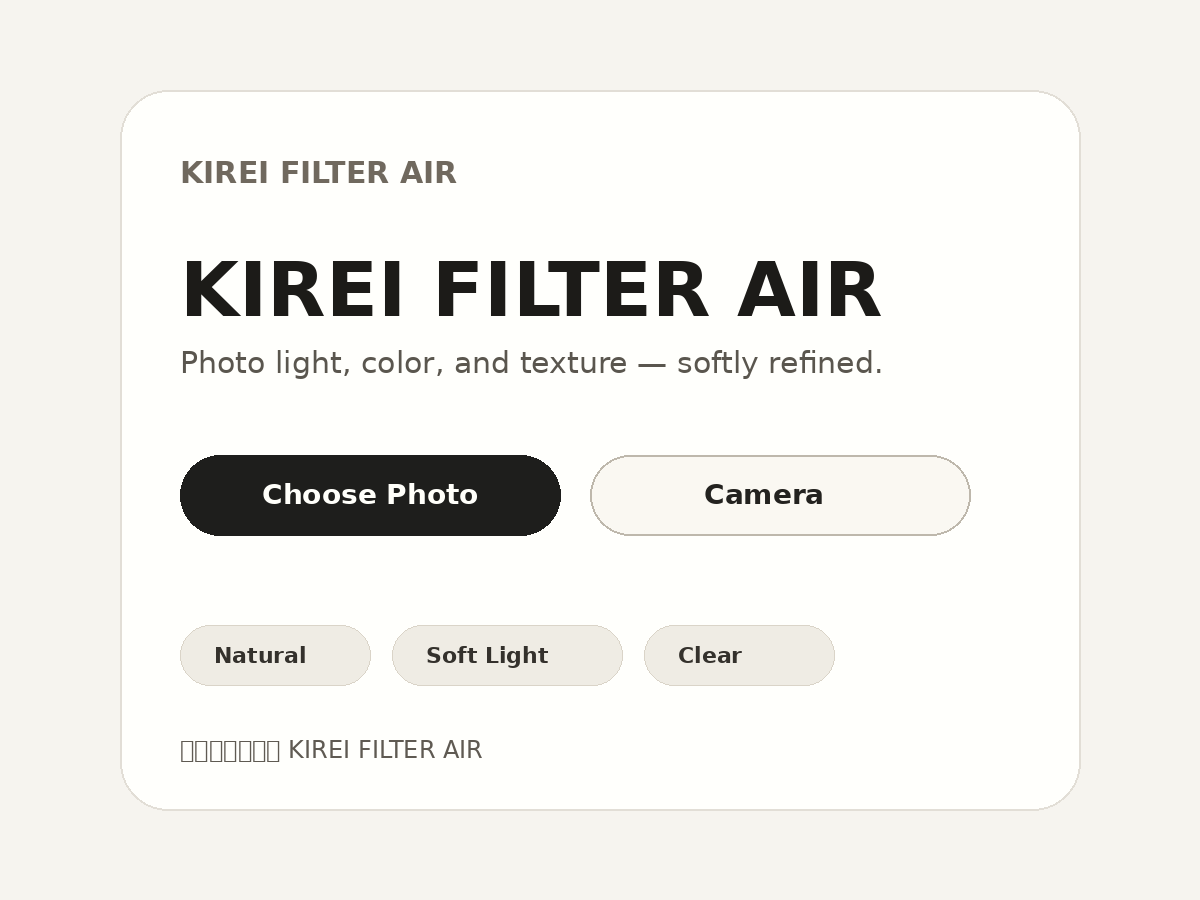
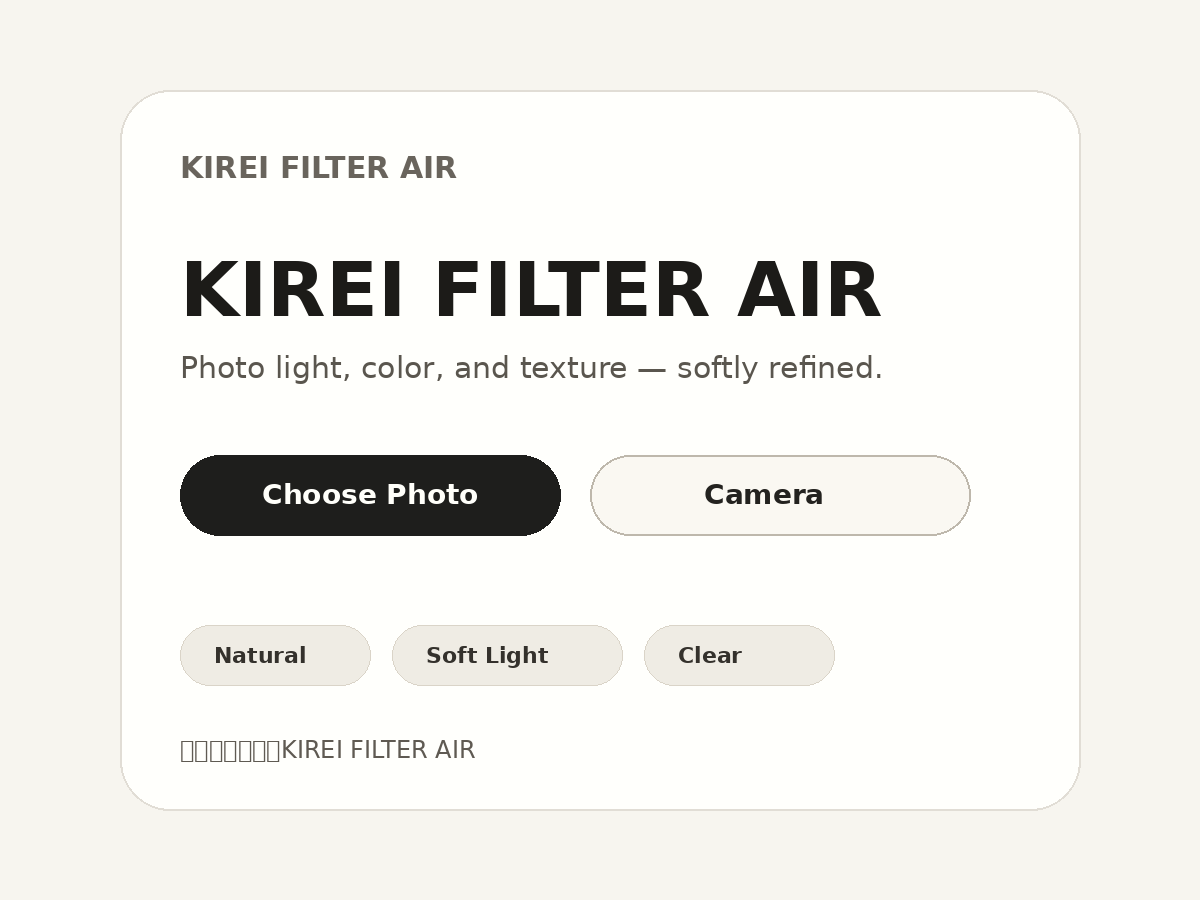
Add files via upload

Changed region(s): [[0.1542, 0.3733, 0.74, 0.4356], [0.1542, 0.1556, 0.4008, 0.2178], [0.2158, 0.8089, 0.4008, 0.84]]

diff --git a/sw.js b/sw.js
@@ -1,4 +1,4 @@
-const CACHE_NAME = 'kirei-filter-air-v20';
+const CACHE_NAME = 'kirei-filter-air-v22-restored';
 const ASSETS = [
   './',
   './index.html',

diff --git a/README.md b/README.md
@@ -16,7 +16,7 @@ https://ai-kirei-filter-air.pages.dev/
 ## Features
 
 - 写真選択 / カメラ撮影
-- Natural / Soft Light / Clear の3モード
+- Natural / Soft Light / Clear
 - Before / After 比較
 - 目元の自然な微調整
 - JPEG保存
@@ -32,17 +32,9 @@ KIREI FILTER AIR は、顔を大きく変えるためのアプリではありま
 
 ## Modes
 
-### Natural
-
-元写真に近いまま、光・色・質感を軽く整えます。
-
-### Soft Light
-
-やわらかい光を足し、少し暖かく見せます。
-
-### Clear
-
-黒を締め、輪郭を少しシャープに見せます。
+- **Natural**：元写真に近い自然補正
+- **Soft Light**：やわらかい光を足し、少し暖かく見せる
+- **Clear**：黒を締め、輪郭を少しシャープに見せる
 
 ## Usage
 
@@ -54,7 +46,7 @@ KIREI FILTER AIR は、顔を大きく変えるためのアプリではありま
 ## Deploy
 
 ```powershell
-cd "$env:USERPROFILE\Desktop\kirei-filter-air-v21"
+cd "$env:USERPROFILE\Desktop\kirei-filter-air-v22-restored"
 npx wrangler pages deploy . --project-name ai-kirei-filter-air
 ```
 
